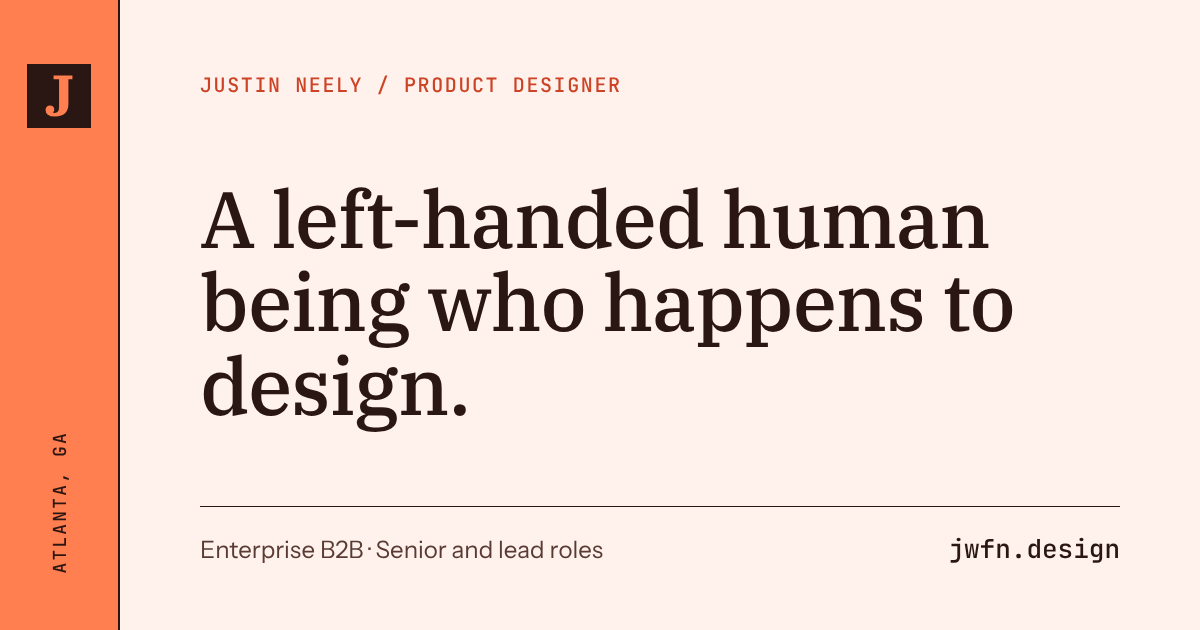
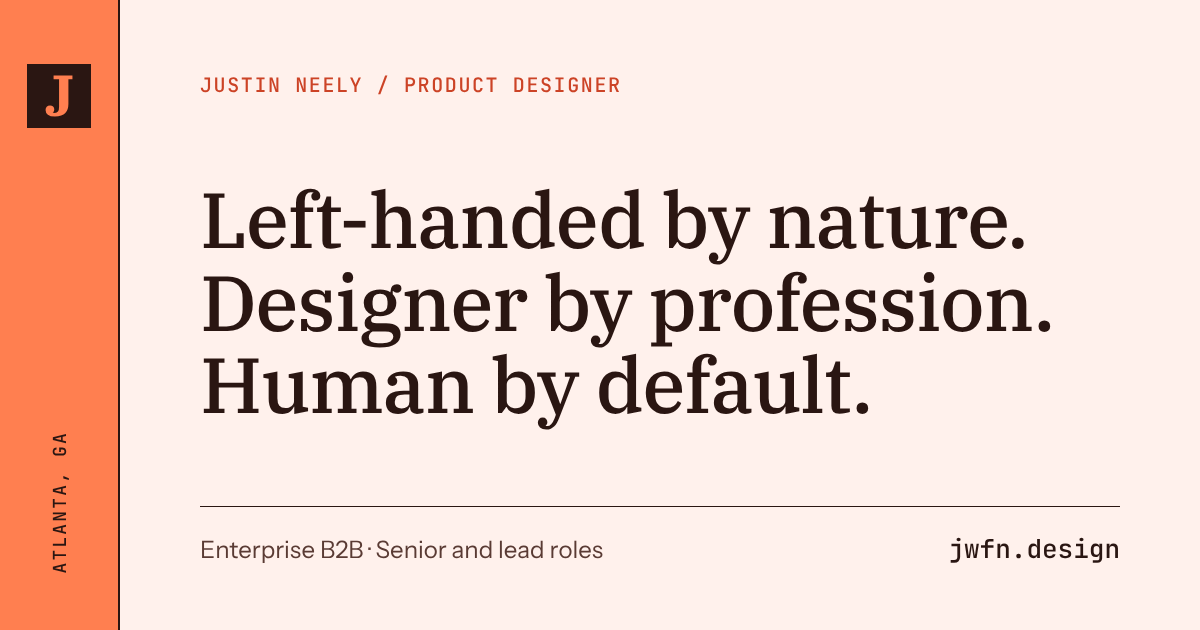
Update link preview card to the new tagline
Card headline and og/meta descriptions now read: Left-handed by nature. Designer by profession. Human by default.
Version the og:image URL so cached previews refresh.

Claude-Session: https://claude.ai/code/session_01CYvR7YUtV1cBfdGW2jcQue

Changed region(s): [[0.1542, 0.4222, 0.8942, 0.6937], [0.1542, 0.3016, 0.8633, 0.4222]]

diff --git a/index.html b/index.html
@@ -4,18 +4,18 @@
     <meta charset="utf-8" />
     <meta name="viewport" content="width=device-width, initial-scale=1" />
     <title>Justin Neely, Product Designer</title>
-    <meta name="description" content="A left-handed human being who happens to design. Product designer in Atlanta with 15+ years of enterprise B2B work." />
+    <meta name="description" content="Left-handed by nature. Designer by profession. Human by default. Product designer in Atlanta with 15+ years of enterprise B2B work." />
 
     <!-- Link previews (iMessage, Slack, LinkedIn, etc.) -->
     <meta property="og:type" content="website" />
     <meta property="og:site_name" content="Justin Neely" />
     <meta property="og:title" content="Justin Neely, Product Designer" />
-    <meta property="og:description" content="A left-handed human being who happens to design." />
+    <meta property="og:description" content="Left-handed by nature. Designer by profession. Human by default." />
     <meta property="og:url" content="https://jwfn.design" />
-    <meta property="og:image" content="https://jwfn.design/og-image.png" />
+    <meta property="og:image" content="https://jwfn.design/og-image.png?v=2" />
     <meta property="og:image:width" content="1200" />
     <meta property="og:image:height" content="630" />
-    <meta property="og:image:alt" content="Justin Neely, Product Designer: A left-handed human being who happens to design. jwfn.design" />
+    <meta property="og:image:alt" content="Justin Neely, Product Designer: Left-handed by nature. Designer by profession. Human by default. jwfn.design" />
     <meta name="twitter:card" content="summary_large_image" />
     <link rel="icon" href="/favicon.ico?v=2" sizes="48x48" />
     <link rel="icon" href="/favicon.svg?v=2" type="image/svg+xml" />
